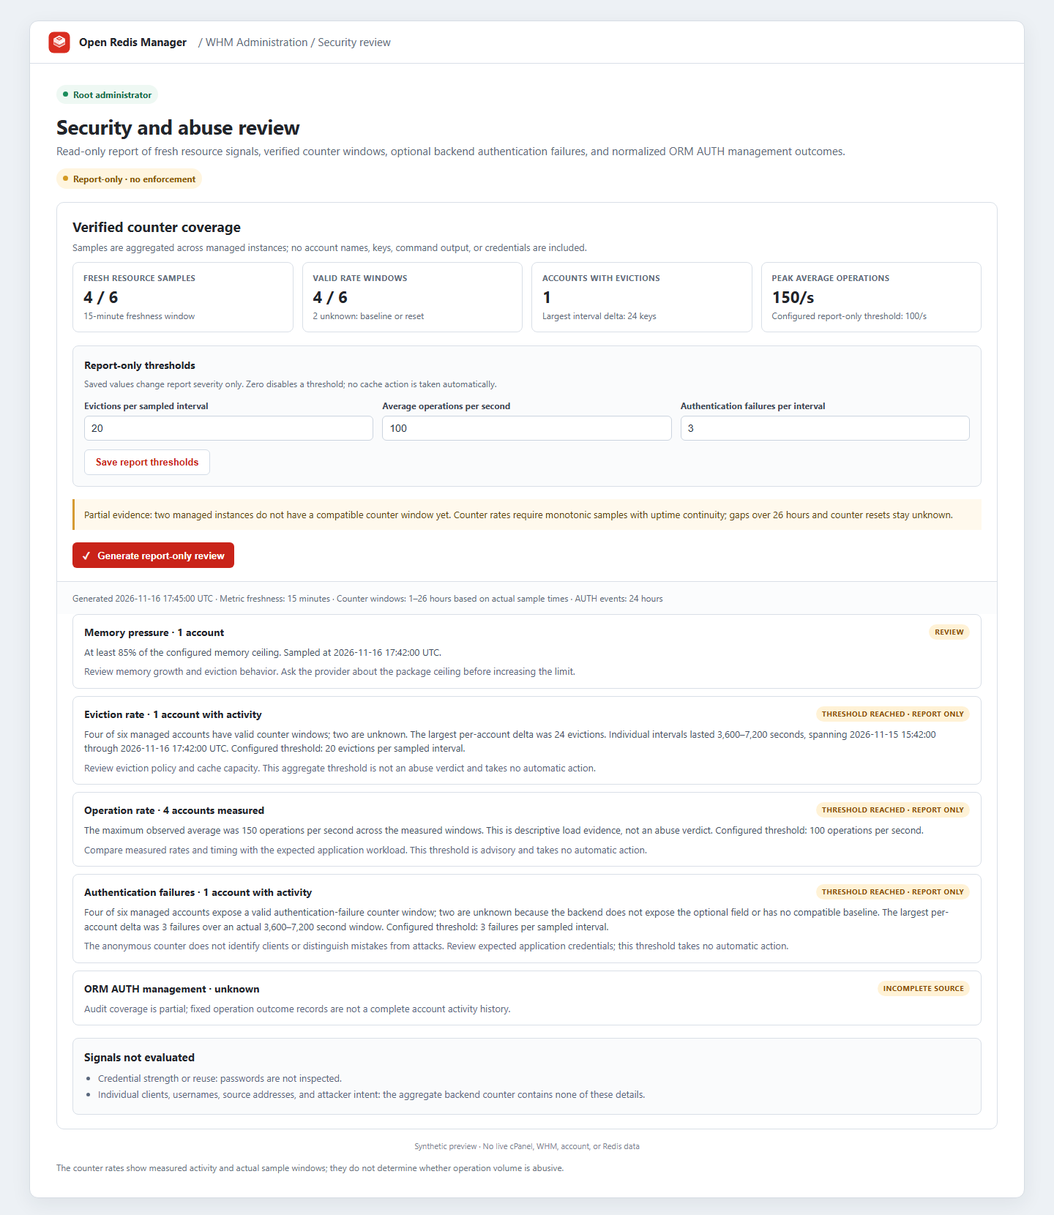
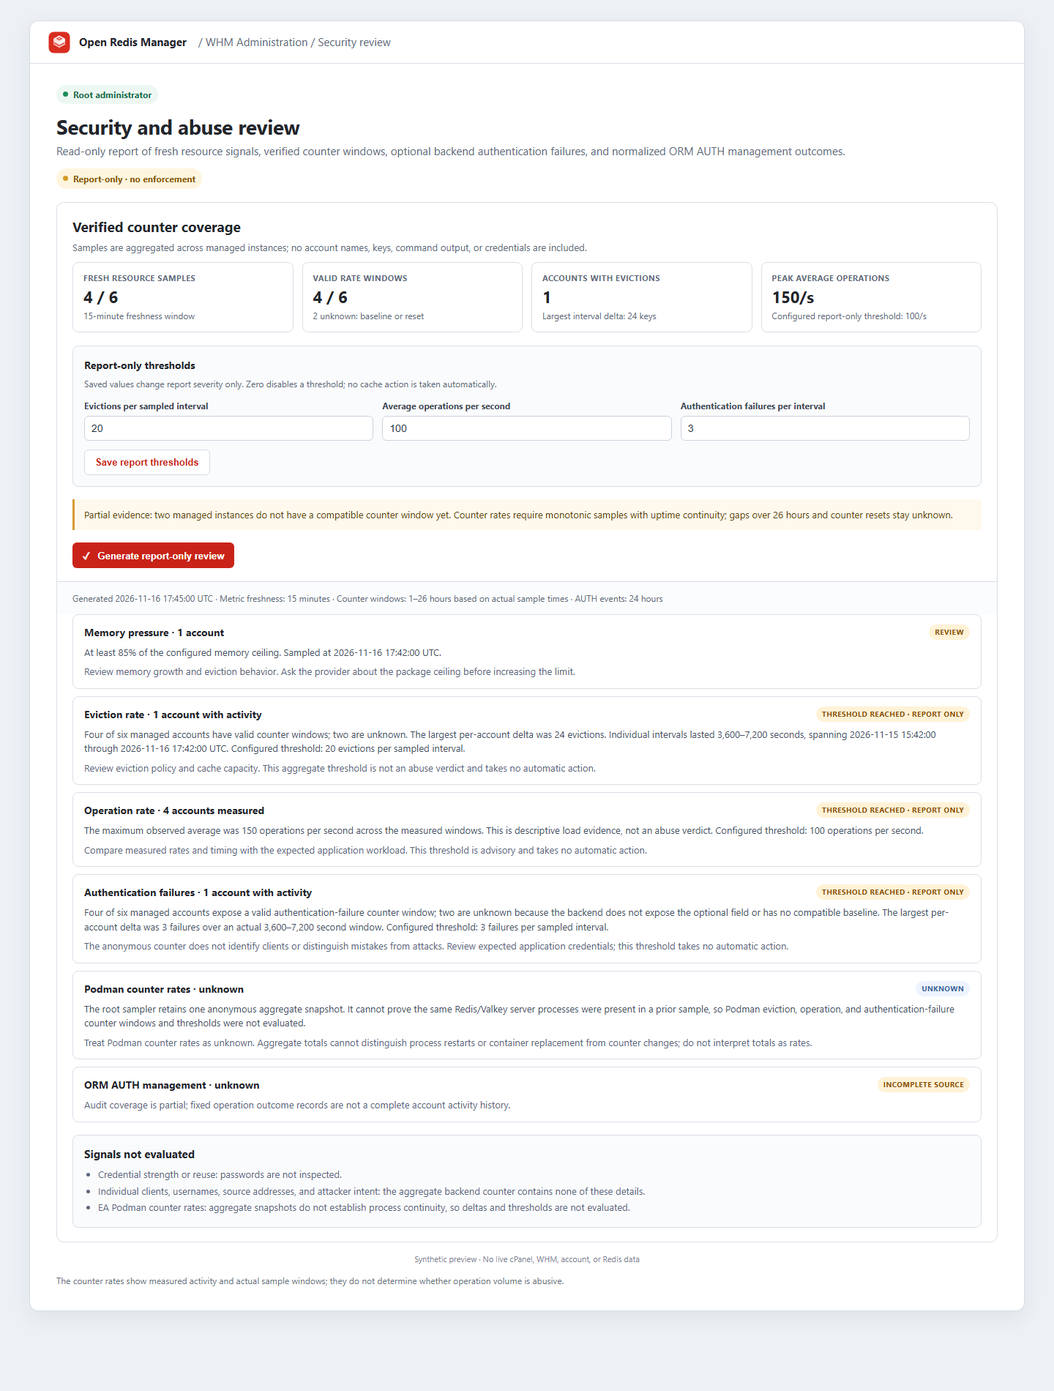
fix(security): mark Podman counter rates unknown

diff --git a/screenshots/previews/whm-security-report.html b/screenshots/previews/whm-security-report.html
@@ -43,9 +43,9 @@
         <li class="finding"><div class="findingtop"><strong>Eviction rate · 1 account with activity</strong><span class="badge warn">Threshold reached · report only</span></div><p>Four of six managed accounts have valid counter windows; two are unknown. The largest per-account delta was 24 evictions. Individual intervals lasted 3,600–7,200 seconds, spanning 2026-11-15 15:42:00 through 2026-11-16 17:42:00 UTC. Configured threshold: 20 evictions per sampled interval.</p><p>Review eviction policy and cache capacity. This aggregate threshold is not an abuse verdict and takes no automatic action.</p></li>
         <li class="finding"><div class="findingtop"><strong>Operation rate · 4 accounts measured</strong><span class="badge warn">Threshold reached · report only</span></div><p>The maximum observed average was 150 operations per second across the measured windows. This is descriptive load evidence, not an abuse verdict. Configured threshold: 100 operations per second.</p><p>Compare measured rates and timing with the expected application workload. This threshold is advisory and takes no automatic action.</p></li>
         <li class="finding"><div class="findingtop"><strong>Authentication failures · 1 account with activity</strong><span class="badge warn">Threshold reached · report only</span></div><p>Four of six managed accounts expose a valid authentication-failure counter window; two are unknown because the backend does not expose the optional field or has no compatible baseline. The largest per-account delta was 3 failures over an actual 3,600–7,200 second window. Configured threshold: 3 failures per sampled interval.</p><p>The anonymous counter does not identify clients or distinguish mistakes from attacks. Review expected application credentials; this threshold takes no automatic action.</p></li>
-        <li class="finding"><div class="findingtop"><strong>ORM AUTH management · unknown</strong><span class="badge warn">Incomplete source</span></div><p>Audit coverage is partial; fixed operation outcome records are not a complete account activity history.</p></li>
+        <li class="finding"><div class="findingtop"><strong>Podman counter rates · unknown</strong><span class="badge">Unknown</span></div><p>The root sampler retains one anonymous aggregate snapshot. It cannot prove the same Redis/Valkey server processes were present in a prior sample, so Podman eviction, operation, and authentication-failure counter windows and thresholds were not evaluated.</p><p>Treat Podman counter rates as unknown. Aggregate totals cannot distinguish process restarts or container replacement from counter changes; do not interpret totals as rates.</p></li><li class="finding"><div class="findingtop"><strong>ORM AUTH management · unknown</strong><span class="badge warn">Incomplete source</span></div><p>Audit coverage is partial; fixed operation outcome records are not a complete account activity history.</p></li>
       </ul>
-      <div class="coverage"><h3>Signals not evaluated</h3><ul><li>Credential strength or reuse: passwords are not inspected.</li><li>Individual clients, usernames, source addresses, and attacker intent: the aggregate backend counter contains none of these details.</li></ul></div>
+      <div class="coverage"><h3>Signals not evaluated</h3><ul><li>Credential strength or reuse: passwords are not inspected.</li><li>Individual clients, usernames, source addresses, and attacker intent: the aggregate backend counter contains none of these details.</li><li>EA Podman counter rates: aggregate snapshots do not establish process continuity, so deltas and thresholds are not evaluated.</li></ul></div>
     </section>
     <p class="foot">Synthetic preview · No live cPanel, WHM, account, or Redis data</p>
     <div class="caption">The counter rates show measured activity and actual sample windows; they do not determine whether operation volume is abusive.</div>

diff --git a/tests/whm-security-report.php b/tests/whm-security-report.php
@@ -83,6 +83,16 @@ $assert(($byCategory['podman_metrics_coverage']['severity'] ?? null) === 'info'
     && str_contains($byCategory['podman_metrics_coverage']['evidence'], '2 Redis, 1 Valkey')
     && str_contains($byCategory['podman_metrics_coverage']['evidence'], 'separate from ORM-managed accounts'),
     'report separate, anonymous Redis and Valkey Podman coverage');
+$assert(($byCategory['podman_counter_rates_unknown']['severity'] ?? null) === 'unknown'
+    && array_key_exists('count', $byCategory['podman_counter_rates_unknown'])
+    && $byCategory['podman_counter_rates_unknown']['count'] === null
+    && str_contains($byCategory['podman_counter_rates_unknown']['evidence'], 'cannot prove the same Redis/Valkey server processes')
+    && str_contains($byCategory['podman_counter_rates_unknown']['evidence'], 'thresholds were not evaluated')
+    && $byCategory['podman_counter_rates_unknown']['sampled_at_utc'] === gmdate('Y-m-d\\TH:i:s\\Z', $now - 60)
+    && $byCategory['podman_counter_rates_unknown']['window_start_utc'] === null
+    && $byCategory['podman_counter_rates_unknown']['window_end_utc'] === null
+    && isset($report['unmeasured']['ea_podman_counter_rates']),
+    'keep Podman rate and threshold evidence explicitly unknown when the aggregate snapshot has no process continuity');
 $assert(($byCategory['memory_pressure']['count'] ?? null) === 1
     && ($byCategory['client_pressure']['count'] ?? null) === 2
     && ($byCategory['low_hit_ratio']['count'] ?? null) === 1
@@ -134,6 +144,8 @@ $assert($thresholdReport['mode'] === 'report-only'
     && $thresholdFindings['operation_rate']['severity'] === 'warning'
     && str_contains($thresholdFindings['operation_rate']['evidence'], 'Report-only threshold: 120')
     && $thresholdFindings['client_authentication_failures']['severity'] === 'warning'
+    && $thresholdFindings['podman_counter_rates_unknown']['severity'] === 'unknown'
+    && !str_contains($thresholdFindings['podman_counter_rates_unknown']['evidence'], 'Report-only threshold:')
     && str_contains($thresholdFindings['client_authentication_failures']['evidence'], 'Report-only threshold: 4')
     && str_contains($thresholdFindings['client_authentication_failures']['recommendation'], 'does not identify a client'),
     'raise advisory severity at configured aggregate thresholds without taking enforcement action');
@@ -229,8 +241,12 @@ $missingPodmanFleet['podman_metrics'] = null;
 $missingPodman = WhmSecurityReport::build($missingPodmanFleet, $audit, $now);
 $missingPodmanCategories = array_column($missingPodman['findings'], null, 'category');
 $assert($missingPodman['partial'] && ($missingPodmanCategories['podman_metrics_unknown']['severity'] ?? null) === 'unknown'
-    && isset($missingPodman['unmeasured']['ea_podman_metrics']),
-    'keep missing Podman snapshots explicitly unknown and mark the report partial');
+    && ($missingPodmanCategories['podman_counter_rates_unknown']['severity'] ?? null) === 'unknown'
+    && $missingPodmanCategories['podman_counter_rates_unknown']['sampled_at_utc'] === null
+    && $missingPodmanCategories['podman_counter_rates_unknown']['window_start_utc'] === null
+    && isset($missingPodman['unmeasured']['ea_podman_metrics'])
+    && isset($missingPodman['unmeasured']['ea_podman_counter_rates']),
+    'keep missing Podman snapshots and unavailable counter windows explicitly unknown and mark the report partial');
 
 if (function_exists('posix_geteuid')) {
     $directory = sys_get_temp_dir() . '/orm-security-report-' . bin2hex(random_bytes(5));

diff --git a/src/Orm/Security/WhmSecurityReport.php b/src/Orm/Security/WhmSecurityReport.php
@@ -192,6 +192,17 @@ final class WhmSecurityReport
                 $podmanSampledAt, $podmanSampledAt, $podmanSampledAt);
         }
 
+        $podmanCounterEvidence = $podmanMetricsValid
+            ? 'The root sampler retains one anonymous aggregate snapshot. It cannot prove the same Redis/Valkey server processes were present in a prior sample, so Podman eviction, operation, and authentication-failure counter windows and thresholds were not evaluated.'
+            : 'No continuity-verified Podman counter window is available. Podman eviction, operation, and authentication-failure thresholds were not evaluated.';
+        $podmanCounterRecommendation = 'Treat Podman counter rates as unknown. Aggregate totals cannot distinguish process restarts or container replacement from counter changes; review current coverage and runtime state without interpreting totals as rates.';
+        $podmanCounterSample = $podmanMetricsValid
+            ? gmdate('Y-m-d\\TH:i:s\\Z', $podmanMetrics['sampled_at'])
+            : null;
+        $findings[] = self::finding('podman_counter_rates_unknown', 'unknown', null,
+            $podmanCounterEvidence, $podmanCounterRecommendation,
+            $podmanCounterSample);
+
         if ($fleetValid) {
             $sampledAt = $metrics['latest_sampled_at'];
             self::appendMetricFinding($findings, 'memory_pressure', $metrics['high_memory_accounts'], 'warning',
@@ -310,6 +321,7 @@ final class WhmSecurityReport
 
         $unmeasured = [
             'credential_strength' => 'Weak or reused passwords are not inspected.',
+            'ea_podman_counter_rates' => 'Anonymous aggregate snapshots do not establish process continuity; Podman counter deltas and thresholds are not evaluated.',
         ];
         if (!$podmanMetricsValid) {
             $unmeasured['ea_podman_metrics'] = 'No fresh, verified root-owned EA Podman snapshot was available.';

diff --git a/docs/features/catalog.md b/docs/features/catalog.md
@@ -36,7 +36,7 @@ This catalog records the public product behavior observed on the reference site 
 | Package limits | Set eligibility, memory/client/database ceilings and backup retention per package. | Root WHM can enable or disable new provisioning per package, set memory ceilings (8–64 MiB), snapshot retention (two or three), client limits (10–100), and database limits (1–16). New instances receive the lower of the generated/global value and the package ceiling. Later over-cap client increases follow the provider mode; existing higher settings can remain unchanged or be reduced. Automatic provisioning remains unimplemented. |
 | Reseller quotas | Summarize managed accounts, active instances and memory; cap new instances and aggregate memory without mutating existing services. | Root WHM shows configured instances, active instances and configured memory per trusted account OWNER. Stopped instances count toward quota checks. A zero limit means unlimited. |
 | Security | Surface authentication failures, credential hygiene and resource-abuse signals; rotate credentials with rollback-safe sequencing. | Root WHM generates a rate-limited, report-only review from fresh fleet memory/client/hit-ratio aggregates, bounded eviction and processed-command counter deltas, an optional backend `acl_access_denied_auth` counter, and normalized ORM AUTH management events. Counter rates require monotonic samples, uptime continuity, and intervals no longer than 26 hours. The optional auth counter is detected at runtime; missing fields/baselines and resets remain unknown. Findings use anonymous aggregate deltas and do not identify clients or establish attacks. ORM does not inspect passwords. It logs only a fixed metadata event. Optional account-level Redis AUTH remains account-controlled and its generated secret is shown once after verification. |
-| Abuse reports | Score supported resource and authentication signals and present bounded evidence for administrator review. Abuse findings are report-only; provider policy's report/warn/enforce modes are separate provisioning controls. | Partial: report-only memory pressure (85%), client pressure (85%), cumulative hit ratio (<50% after 100 lookups), and optional configurable report-only thresholds for eviction deltas, average operations per second, and authentication-failure deltas. Thresholds default to disabled, are stored separately in a root-owned policy, and change report severity only. Each report is rate-limited to one per minute and marks partial/unavailable sources unknown. Findings show UTC evidence-window bounds, sample times where available, and review recommendations; counter evidence includes actual sample intervals up to 26 hours. A separate EA Podman coverage finding uses the root-owned scheduled aggregate snapshot; Podman counter-rate deltas and thresholds are not implemented. Automated enforcement for abuse signals is not implemented; no credentials, Redis keys, or client identities are inspected. A live ORM-managed Valkey 7.2.15 instance contributed bounded counters to the WHM report engine, and the authenticated WHM response rendered the eviction, operation, and optional authentication findings in report-only mode on one cPanel host. The same cPanel host also exercised the root-owned Podman sampler against its existing Redis and temporary Valkey sockets (2 discovered, sampled, and reachable). This verifies anonymous aggregate coverage collection on one host; it does not add Podman counter-rate abuse findings or validate the broader support matrix. See the [EA Podman sampler record](../validation/records/2026-11-21-cpanel-ea-podman-metrics-sampler.md). Browser visual review remains open. See also the [WHM report threshold guide](../guides/security-report-thresholds.md), [Valkey live report record](../validation/records/2026-11-21-valkey-security-report-live.md), [report form record](../validation/records/2026-11-21-whm-security-report-live.md), and [Valkey field probe](../validation/records/2026-11-21-valkey-security-counter-probe.md). |
+| Abuse reports | Score supported resource and authentication signals and present bounded evidence for administrator review. Abuse findings are report-only; provider policy's report/warn/enforce modes are separate provisioning controls. | Partial: report-only memory pressure (85%), client pressure (85%), cumulative hit ratio (<50% after 100 lookups), and optional configurable report-only thresholds for eviction deltas, average operations per second, and authentication-failure deltas. Thresholds default to disabled, are stored separately in a root-owned policy, and change report severity only. Each report is rate-limited to one per minute and marks partial/unavailable sources unknown. Findings show UTC evidence-window bounds, sample times where available, and review recommendations; counter evidence includes actual sample intervals up to 26 hours. A separate EA Podman coverage finding and explicit unknown counter-rate finding use the root-owned scheduled aggregate snapshot; Podman counter-rate deltas and thresholds are not evaluated because aggregate totals cannot establish process continuity. A per-process baseline would be linkable pseudonymous state and requires separate privacy/security review. Automated enforcement for abuse signals is not implemented; no credentials, Redis keys, or client identities are inspected. A live ORM-managed Valkey 7.2.15 instance contributed bounded counters to the WHM report engine, and the authenticated WHM response rendered the eviction, operation, and optional authentication findings in report-only mode on one cPanel host. The same cPanel host also exercised the root-owned Podman sampler against its existing Redis and temporary Valkey sockets (2 discovered, sampled, and reachable). This verifies anonymous aggregate coverage collection on one host; it does not add Podman counter-rate abuse findings or validate the broader support matrix. See the [EA Podman sampler record](../validation/records/2026-11-21-cpanel-ea-podman-metrics-sampler.md). Browser visual review remains open. See also the [WHM report threshold guide](../guides/security-report-thresholds.md), [Valkey live report record](../validation/records/2026-11-21-valkey-security-report-live.md), [report form record](../validation/records/2026-11-21-whm-security-report-live.md), and [Valkey field probe](../validation/records/2026-11-21-valkey-security-counter-probe.md). |
 | Authentication protection | Rate-limit repeated authentication failures, audit lockouts without logging secrets, and detect weak or reused credentials without exposing values. | The report measures anonymous backend auth-failure counter deltas only when the backend exposes the INFO field; unsupported versions and incomplete windows remain unknown. It does not identify clients, create lockouts, or evaluate credential strength/reuse. Broker operations use Unix-socket peer credentials and fixed request rate limits. Redis AUTH is optional and is not a substitute for account isolation. |
 | Branding | Configure provider product name, logo, support link, four labelled theme colors, brand-inspired palettes, footer visibility and a live cPanel preview. | Root WHM stores validated provider branding in the root-owned v4 policy file. The account-scoped broker exposes only display data to cPanel. The four palette roles are primary action, link, panel background, and text; the project-authored ORM, UnderHost-inspired, Redis-inspired, and Valkey-inspired palettes change colors only. |
 | Updates | Verify release metadata and expose an administrator-approved update path that preserves existing accounts. | Root WHM verifies a manually staged, locally signed release against the installed v3 manifest, displays signature, digest and per-file actions, and requires a fresh conflict-free preview plus explicit confirmation. A fixed worker applies the bound version and artifact asynchronously through the transactional updater and exposes bounded status and recovery states. Releases are not fetched automatically; existing v1/v2 installs need exact-match manifest adoption, and the workflow still needs live cPanel validation. See the [update lifecycle guide](../guides/update-lifecycle.md). |

diff --git a/project/README.md b/project/README.md
@@ -47,7 +47,7 @@ Open a feature branch and pull request for each coherent implementation incremen
 - The repository includes a manual development installer, cPanel/WHM entry points, an account-bound broker, instance lifecycle/configuration, metrics, backups and restore, package/reseller policy, provider branding, application discovery, guarded migration, root-only diagnostics, a fixed recovery scan/start/config-rebuild action, a report-only WHM security review, an audit viewer, and signed asynchronous WHM updates. The config rebuild is limited to an intact manifest and safely readable existing config, preserves only validated settings/AUTH, and does not start the service. The standalone prototype UI uses sample data.
 - Linux CI and fixture tests cover important broker and packaging paths, including fresh-install success/rollback in an isolated mock cPanel root. Live evidence includes account identity, one exact managed-v1 upgrade, and cPanel icon registration refresh; records state their narrow scope. Live fresh install, lifecycle, ACLs across supported releases, restore, Redis-to-Valkey migration, recovery, uninstall, CloudLinux/CageFS and failure-injection behavior remain release gates. No ORM-supported production host matrix is established.
 - The [host compatibility and validation matrix](../docs/validation/compatibility-matrix.md), [sanitized validation record template](../docs/validation/record-template.md), and [unreleased release notes](../docs/release-notes.md) track the gap between implemented code and validated deployment support.
-- User-supplied Redis commands remain unsupported. Audit the live issue list before planning additional milestone #2 work; issue #71 covers the report-only security feature. A read-only Redis 6.2.24 probe confirms its optional auth counter is absent. The authenticated ORM-to-WHM report form and audit flow passed on the rc.8 candidate; Valkey and broader supported-version/host coverage remain open.
+- User-supplied Redis commands remain unsupported. Audit the live issue list before planning additional milestone #2 work; issue #71 covers the report-only security feature; Podman counter rates remain explicitly unknown until a privacy-reviewed continuity design exists. A read-only Redis 6.2.24 probe confirms its optional auth counter is absent. The authenticated ORM-to-WHM report form and audit flow passed on the rc.8 candidate; Valkey and broader supported-version/host coverage remain open.
 - Application connection guides document values and examples; ORM does not configure application files. WHM applies manually staged signed file releases for exact v3 installs. There is no automatic release feed or production signing service; AppConfig changes, first-time bootstrap of older installs, upgrades outside the exact tested managed-v1 baseline, and the remaining live-host validation remain release gates. See the [update lifecycle guide](../docs/guides/update-lifecycle.md).
 
 - [#161 — Validate selectable WHM diagnostics on disposable cPanel](https://github.com/aivanov2-godaddy/open-redis-manager/issues/161) ([draft](issues/17-whm-diagnostics-live-validation.md))

diff --git a/docs/guides/security-report-thresholds.md b/docs/guides/security-report-thresholds.md
@@ -14,7 +14,9 @@ All thresholds default to zero, which disables threshold classification. Thresho
 
 ## EA Podman coverage
 
-The WHM report includes a separate EA Podman Redis/Valkey coverage finding from the root-owned scheduled snapshot. It shows discovered, sampled, unmeasured, and skipped counts and does not combine these containers with ORM-managed account totals. A missing, stale, invalid, or partial snapshot is reported as unknown. The six allowlisted Podman counters are currently aggregate-state evidence only; Podman counter deltas and thresholds are not implemented. This coverage finding does not establish abuse or trigger remediation.
+The WHM report includes a separate EA Podman Redis/Valkey coverage finding from the root-owned scheduled snapshot. It shows discovered, sampled, unmeasured, and skipped counts and does not combine these containers with ORM-managed account totals. A missing, stale, invalid, or partial snapshot is reported as unknown. A separate `podman_counter_rates_unknown` finding is always shown: the six allowlisted Podman counters are a single anonymous aggregate snapshot, which cannot establish that the same Redis/Valkey server processes were present across samples. Podman eviction, operation-rate, and authentication-failure deltas and thresholds are not evaluated. The report records this gap under `ea_podman_counter_rates`; it never interprets cumulative totals as rates.
+
+Computing trustworthy Podman deltas would require retaining cross-sample process-continuity data. Any such baseline would be linkable pseudonymous state even if it withheld account and container names, so it needs a separate privacy and security review before implementation. The current report does not retain per-process identities or counters.
 
 These measurements are anonymous fleet aggregates. They do not identify which account or client produced the maximum, distinguish mistakes from attacks, or prove abuse. A threshold warning is a review prompt, not an incident finding. Do not treat missing or stale evidence as zero.
 

diff --git a/docs/features/screenshot-map.md b/docs/features/screenshot-map.md
@@ -28,7 +28,7 @@ The public gallery has three cPanel and nine WHM screenshots. Its cards open an 
 | [ORM health guidance](../../screenshots/cpanel-health-guidance.png) | Synthetic account-scoped 25/100 advisory score with 4/4 evidence coverage and actionable memory/client/hit-ratio findings; unknown checks are not passes. |
 | [ORM diagnostics preview](../../screenshots/orm-diagnostics.png) | Synthetic cPanel support panel with a credential-redacted JSON preview and explicit download action. |
 | [WHM audit log](../../screenshots/whm-audit-log.png) | Root-only UTC filters, cPanel lifecycle/configuration events, source coverage, normalized records, and JSON export using synthetic sample data. |
-| [WHM security report](../../screenshots/whm-security-report.png) | Synthetic report-only findings with configurable threshold controls, counter-rate windows, partial coverage, and explicitly unknown authentication signals. The preview crosses the sample thresholds to show advisory warnings only. |
+| [WHM security report](../../screenshots/whm-security-report.png) | Synthetic report-only findings with configurable threshold controls, counter-rate windows, partial coverage, and explicitly unknown authentication and Podman counter-rate signals. The preview crosses the sample thresholds to show advisory warnings only. |
 | [cPanel Jupiter v4 icon preview](../../screenshots/previews/cpanel-icons-v4-preview.png) | Local preview of the exact 48×48 PNGs registered directly for the group and launcher, using the approved brand mark. This is an asset preview, not a live authenticated cPanel capture. |
 | [cPanel Jupiter generated-sprite preview](../../screenshots/previews/cpanel-jupiter-live-sprite-preview.png) | Local render of the group and launcher entries from the test server's generated Jupiter sprite after its CSS cache key was synchronized. The artwork is sourced from the live sprite; this is not a browser screenshot. |
 

diff --git a/docs/release-notes.md b/docs/release-notes.md
@@ -1,5 +1,7 @@
 # Unreleased development notes
 
+- WHM security reports now show an explicit unknown finding for EA Podman counter rates and thresholds. Aggregate snapshots remain coverage evidence only because they do not prove process continuity across samples; the report does not interpret cumulative totals as rates.
+
 **Updated:** 2026-11-21
 **Release:** `0.1.0-rc.8` is a validation candidate only; no public release is published and milestone 0.1.0 release gates remain open.
 
